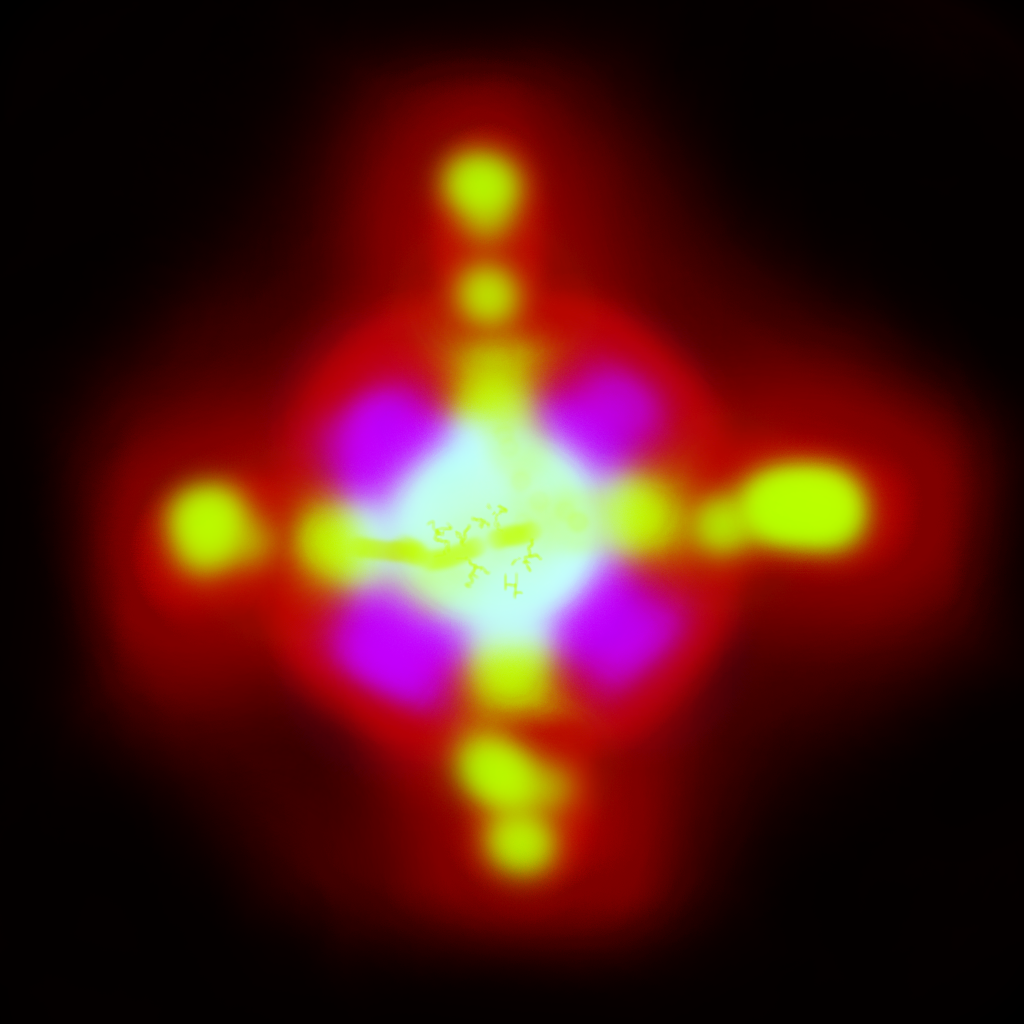
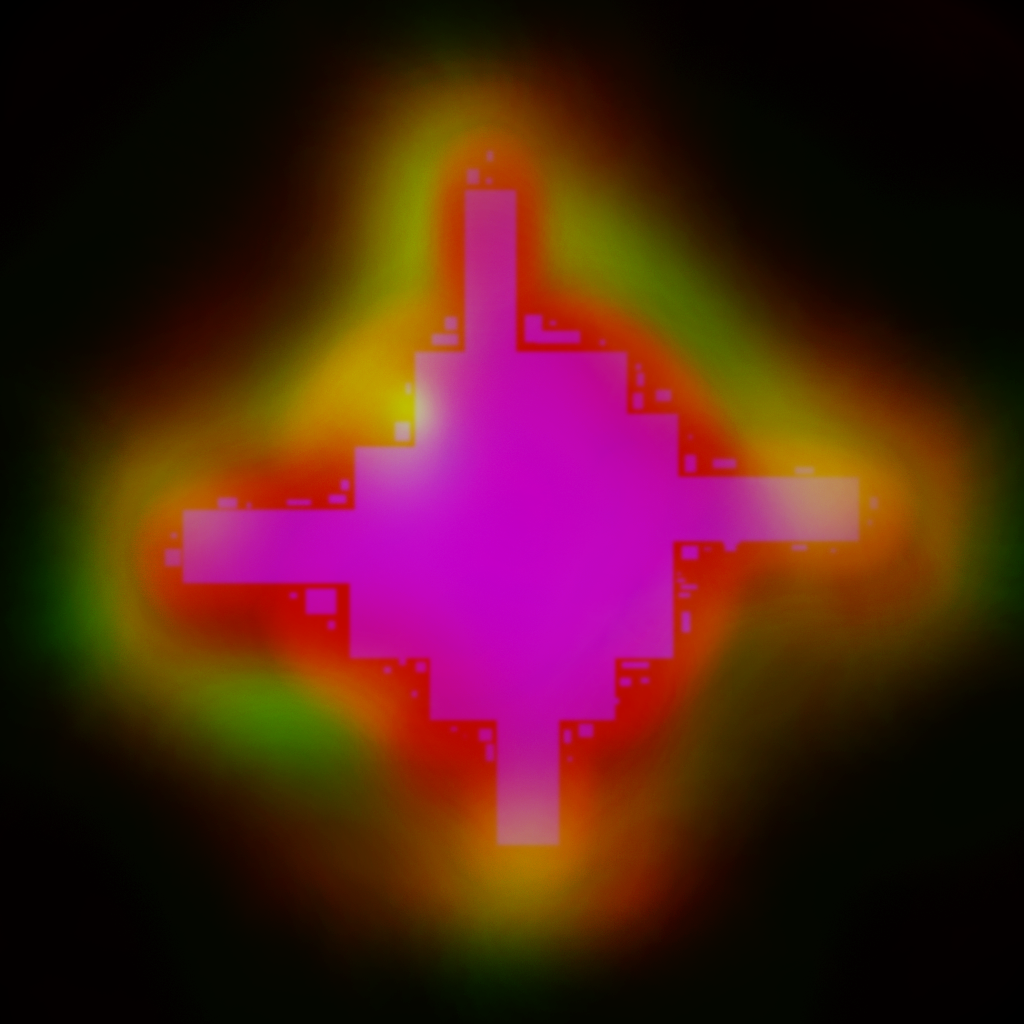
Finishing off terrain
Terrain almost finished. moving onto units now.

diff --git a/web/js/world.js b/web/js/world.js
@@ -58,6 +58,14 @@ World.loadLevel = function(o) {
 		}
 	}
 
+	function purge() {
+		Scene.GX.cache.clear();
+	}
+
+	var matFileA = 'dirt/dirt';
+	var matFileB = 'grass/clover_small';
+	var matFileC = 'struct/square_tiles';
+
 	World.plane = new GLOW.Shader({
 		vertexShader: loadFile('./gpu/unit.vs'),
 		fragmentShader: loadFile('./gpu/unit.fs'),
@@ -71,21 +79,21 @@ World.loadLevel = function(o) {
 			vHeight: World.heightMap2,
 			fHeight: new GLOW.Float(World.height),
 
-			tHRock: new GLOW.Texture({url: './img/world/rock/rock_height.jpg'}),
-			tHGrass: new GLOW.Texture({url: './img/world/grass/grass_thick_height.jpg'}),
-			tHTiles: new GLOW.Texture({url: './img/world/struct/square_tiles_height.jpg'}),
+			tHA: new GLOW.Texture({url: './img/world/' + matFileA + '_height.jpg', onLoadComplete: purge}),
+			tHB: new GLOW.Texture({url: './img/world/' + matFileB + '_height.jpg', onLoadComplete: purge}),
+			tHC: new GLOW.Texture({url: './img/world/' + matFileC + '_height.jpg', onLoadComplete: purge}),
 
-			tDRock: new GLOW.Texture({url: './img/world/rock/rock_diffuse.jpg'}),
-			tDGrass: new GLOW.Texture({url: './img/world/grass/grass_thick_diffuse.jpg'}),
-			tDTiles: new GLOW.Texture({url: './img/world/struct/square_tiles_diffuse.jpg'}),
+			tDA: new GLOW.Texture({url: './img/world/' + matFileA + '_diffuse.jpg', onLoadComplete: purge}),
+			tDB: new GLOW.Texture({url: './img/world/' + matFileB + '_diffuse.jpg', onLoadComplete: purge}),
+			tDC: new GLOW.Texture({url: './img/world/' + matFileC + '_diffuse.jpg', onLoadComplete: purge}),
 
-			tNRock: new GLOW.Texture({url: './img/world/rock/rock_normal.jpg'}),
-			tNGrass: new GLOW.Texture({url: './img/world/grass/grass_thick_normal.jpg'}),
-			tNTiles: new GLOW.Texture({url: './img/world/struct/square_tiles_normal.jpg'}),
+			tNA: new GLOW.Texture({url: './img/world/' + matFileA + '_normal.jpg', onLoadComplete: purge}),
+			tNB: new GLOW.Texture({url: './img/world/' + matFileB + '_normal.jpg', onLoadComplete: purge}),
+			tNC: new GLOW.Texture({url: './img/world/' + matFileC + '_normal.jpg', onLoadComplete: purge}),
 
-			tSRock: new GLOW.Texture({url: './img/world/rock/rock_spec.jpg'}),
-			tSGrass: new GLOW.Texture({url: './img/world/grass/grass_thick_spec.jpg'}),
-			tSTiles: new GLOW.Texture({url: './img/world/struct/square_tiles_spec.jpg'}),
+			tSA: new GLOW.Texture({url: './img/world/' + matFileA + '_spec.jpg', onLoadComplete: purge}),
+			tSB: new GLOW.Texture({url: './img/world/' + matFileB + '_spec.jpg', onLoadComplete: purge}),
+			tSC: new GLOW.Texture({url: './img/world/' + matFileC + '_spec.jpg', onLoadComplete: purge}),
 
 			mapres: new GLOW.Vector2(World.hres, World.hres),
 			vertres: new GLOW.Vector2(World.size, World.size),
@@ -132,6 +140,8 @@ World.heightImage.addEventListener('load', function(e) {
 	World.heightCtx2.fillRect(0, 0, World.size, World.size);
 	World.heightCtx2.drawImage(World.heightCvs, 0, 0, World.size, World.size);
 
+	World.heightMap = new GLOW.Texture({});
+	World.heightMap2 = new GLOW.Texture({});
 	World.heightMap.data = World.heightCvs;
 	World.heightMap2.data = World.heightCvs2;
 	World.heightMap.updateTexture();
@@ -140,8 +150,8 @@ World.heightImage.addEventListener('load', function(e) {
 	World.ready = true;
 });
 World.heightImage.src = './img/map.png';
-World.heightMap = new GLOW.Texture({});
-World.heightMap2 = new GLOW.Texture({});
+World.heightMap = undefined;
+World.heightMap2 = undefined;
 
 // document.body.appendChild(World.heightCvs2);
 
@@ -155,11 +165,13 @@ World.draw = function(dt, data) {
 	"use strict";
 	if (World.plane.uniforms.viewMatrix !== undefined) GX.cache.invalidateUniform(World.plane.uniforms.viewMatrix);
 	if (World.plane.uniforms.cameraPosition !== undefined) GX.cache.invalidateUniform(World.plane.uniforms.cameraPosition);
-	if (World.plane.uniforms.dataPass !== undefined) GX.cache.invalidateUniform(World.plane.uniforms.dataPass);
-	if (data === true) {
-		World.plane.dataPass.set(true);
-	} else {
-		World.plane.dataPass.set(false);
+	if (World.plane.uniforms.dataPass !== undefined) {
+		GX.cache.invalidateUniform(World.plane.uniforms.dataPass);
+		if (data === true) {
+			World.plane.dataPass.set(true);
+		} else {
+			World.plane.dataPass.set(false);
+		}
 	}
 	World.plane.draw();
 };

diff --git a/web/js/game.js b/web/js/game.js
@@ -20,10 +20,6 @@ Game.init = function() {
 	Game.loop();
 	Game.draw();
 
-	setInterval(function() {
-		Scene.GX.cache.clear();
-	}, 1000);
-
 };
 
 Game.clock = {
@@ -176,7 +172,7 @@ Game.draw = function() {
 	// pb[1] = Game.dataArray[off+1];
 	// pb[2] = Game.dataArray[off+2];
 	// pb[3] = Game.dataArray[off+3];
-	colorBox.style.backgroundColor = 'rgba(' + pb[0] + ', ' + (pb[1]) + ', '+ (pb[2]) + ', ' + (pb[3]) + ')';
+	// colorBox.style.backgroundColor = 'rgba(' + pb[0] + ', ' + (pb[1]) + ', '+ (pb[2]) + ', ' + (pb[3]) + ')';
 	// if (pb[3] == 0) {
 	// 	colorBox.style.border = '2px solid #c00';
 	// } else {
@@ -210,13 +206,13 @@ Game.draw = function() {
 // Event Handlers
 
 
-window.colorBox = document.createElement('div');
-colorBox.style.position = 'absolute';
-colorBox.style.left = '0px';
-colorBox.style.top = '0px';
-colorBox.style.width = '32px';
-colorBox.style.height = '32px';
-document.body.appendChild(colorBox);
+// window.colorBox = document.createElement('div');
+// colorBox.style.position = 'absolute';
+// colorBox.style.left = '0px';
+// colorBox.style.top = '0px';
+// colorBox.style.width = '32px';
+// colorBox.style.height = '32px';
+// document.body.appendChild(colorBox);
 
 document.body.addEventListener('mousemove', function(e) {
 	if (Game.input.mouse.locked) {

diff --git a/web/index.htm b/web/index.htm
@@ -1,8 +1,15 @@
 <!doctype html>
 <html>
 	<head>
-		<title>Final Stance</title>
+		<title>Last Stand</title>
 		<link rel="stylesheet" href="./css/main.css">
 		<script src="js/main.js"></script>
 	</head>
+	<body>
+		<ul class="help">
+			<li>Hold ALT to rotate the camera.</li>
+			<li>Use the mouse wheel too zoom.</li>
+			<li>Hold the middle mouse button to pan.</li>
+		</ul>
+	</body>
 </html>

diff --git a/web/css/main.css b/web/css/main.css
@@ -4,3 +4,11 @@ body, html, canvas {
 	margin: 0;
 	padding: 0;
 }
+
+.help {
+	position: absolute;
+	left: 0;
+	top: 0;
+	color: #fff;
+	font-family: Arial, sans-serif;
+}
